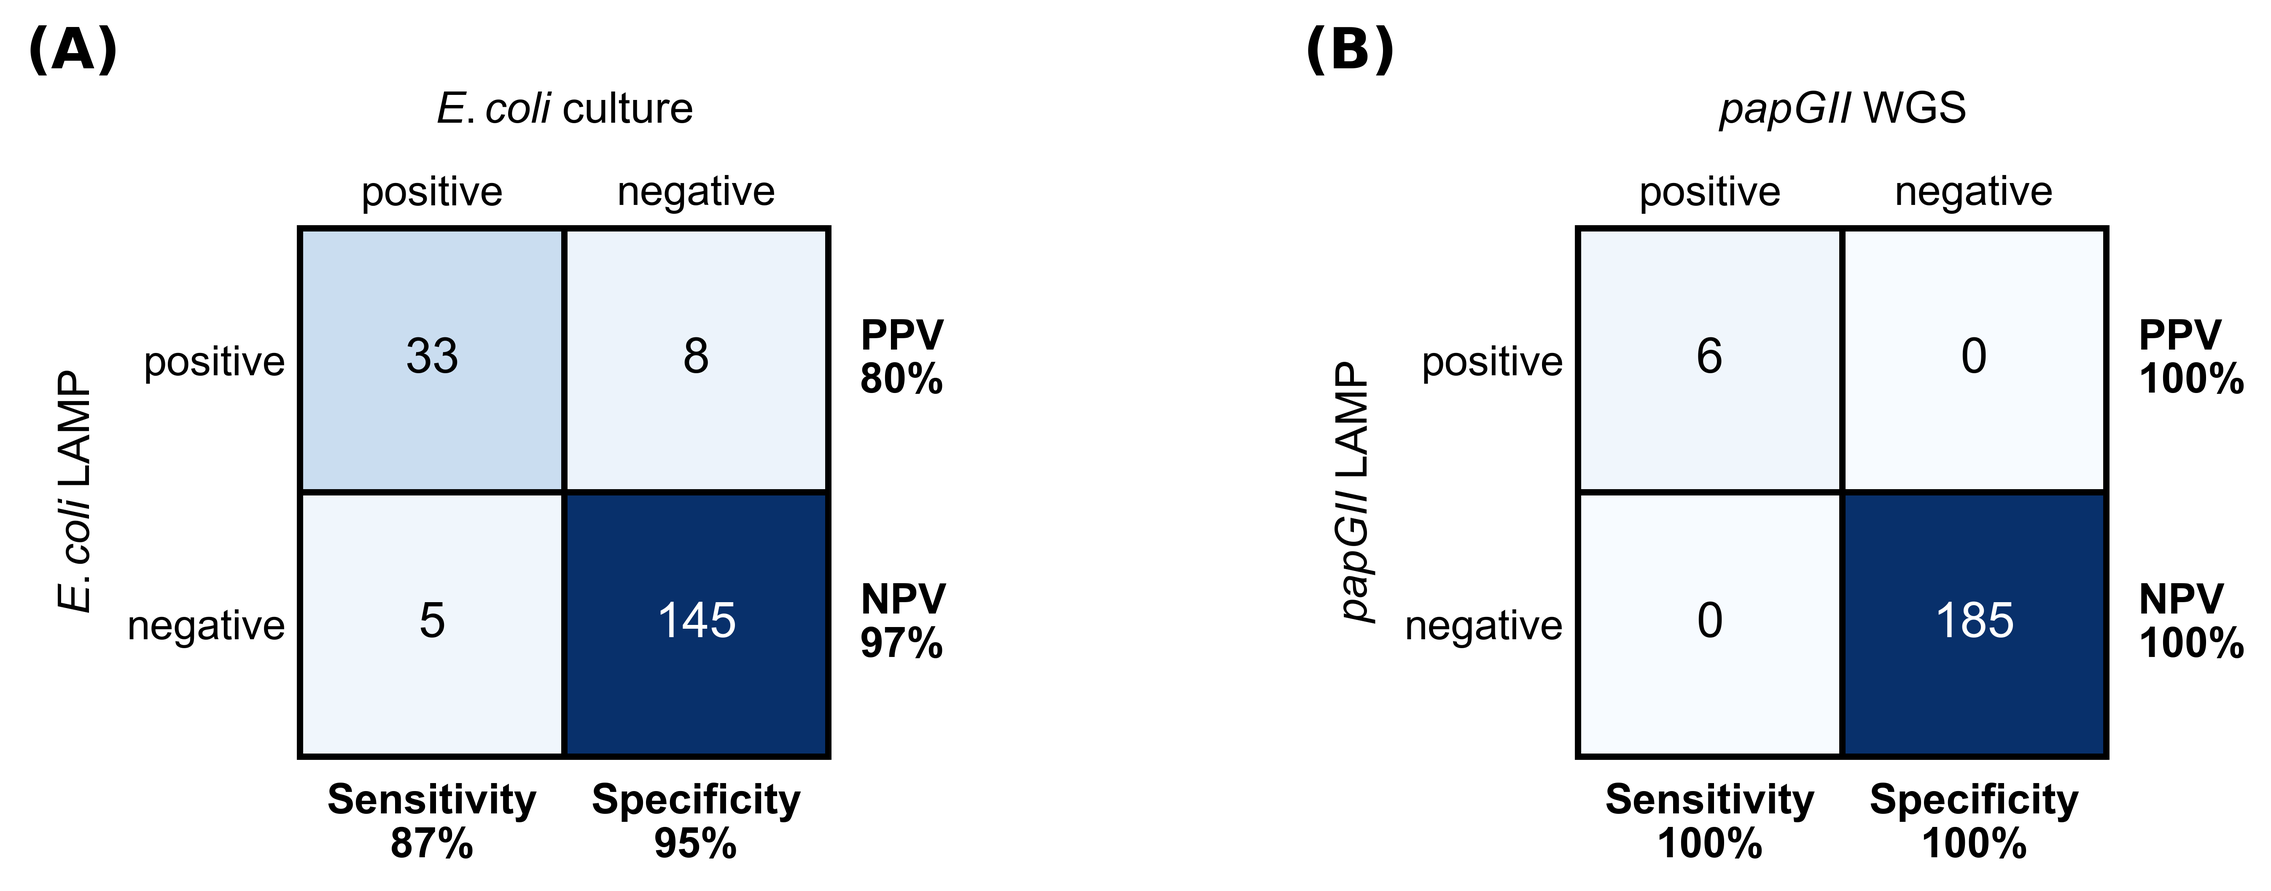
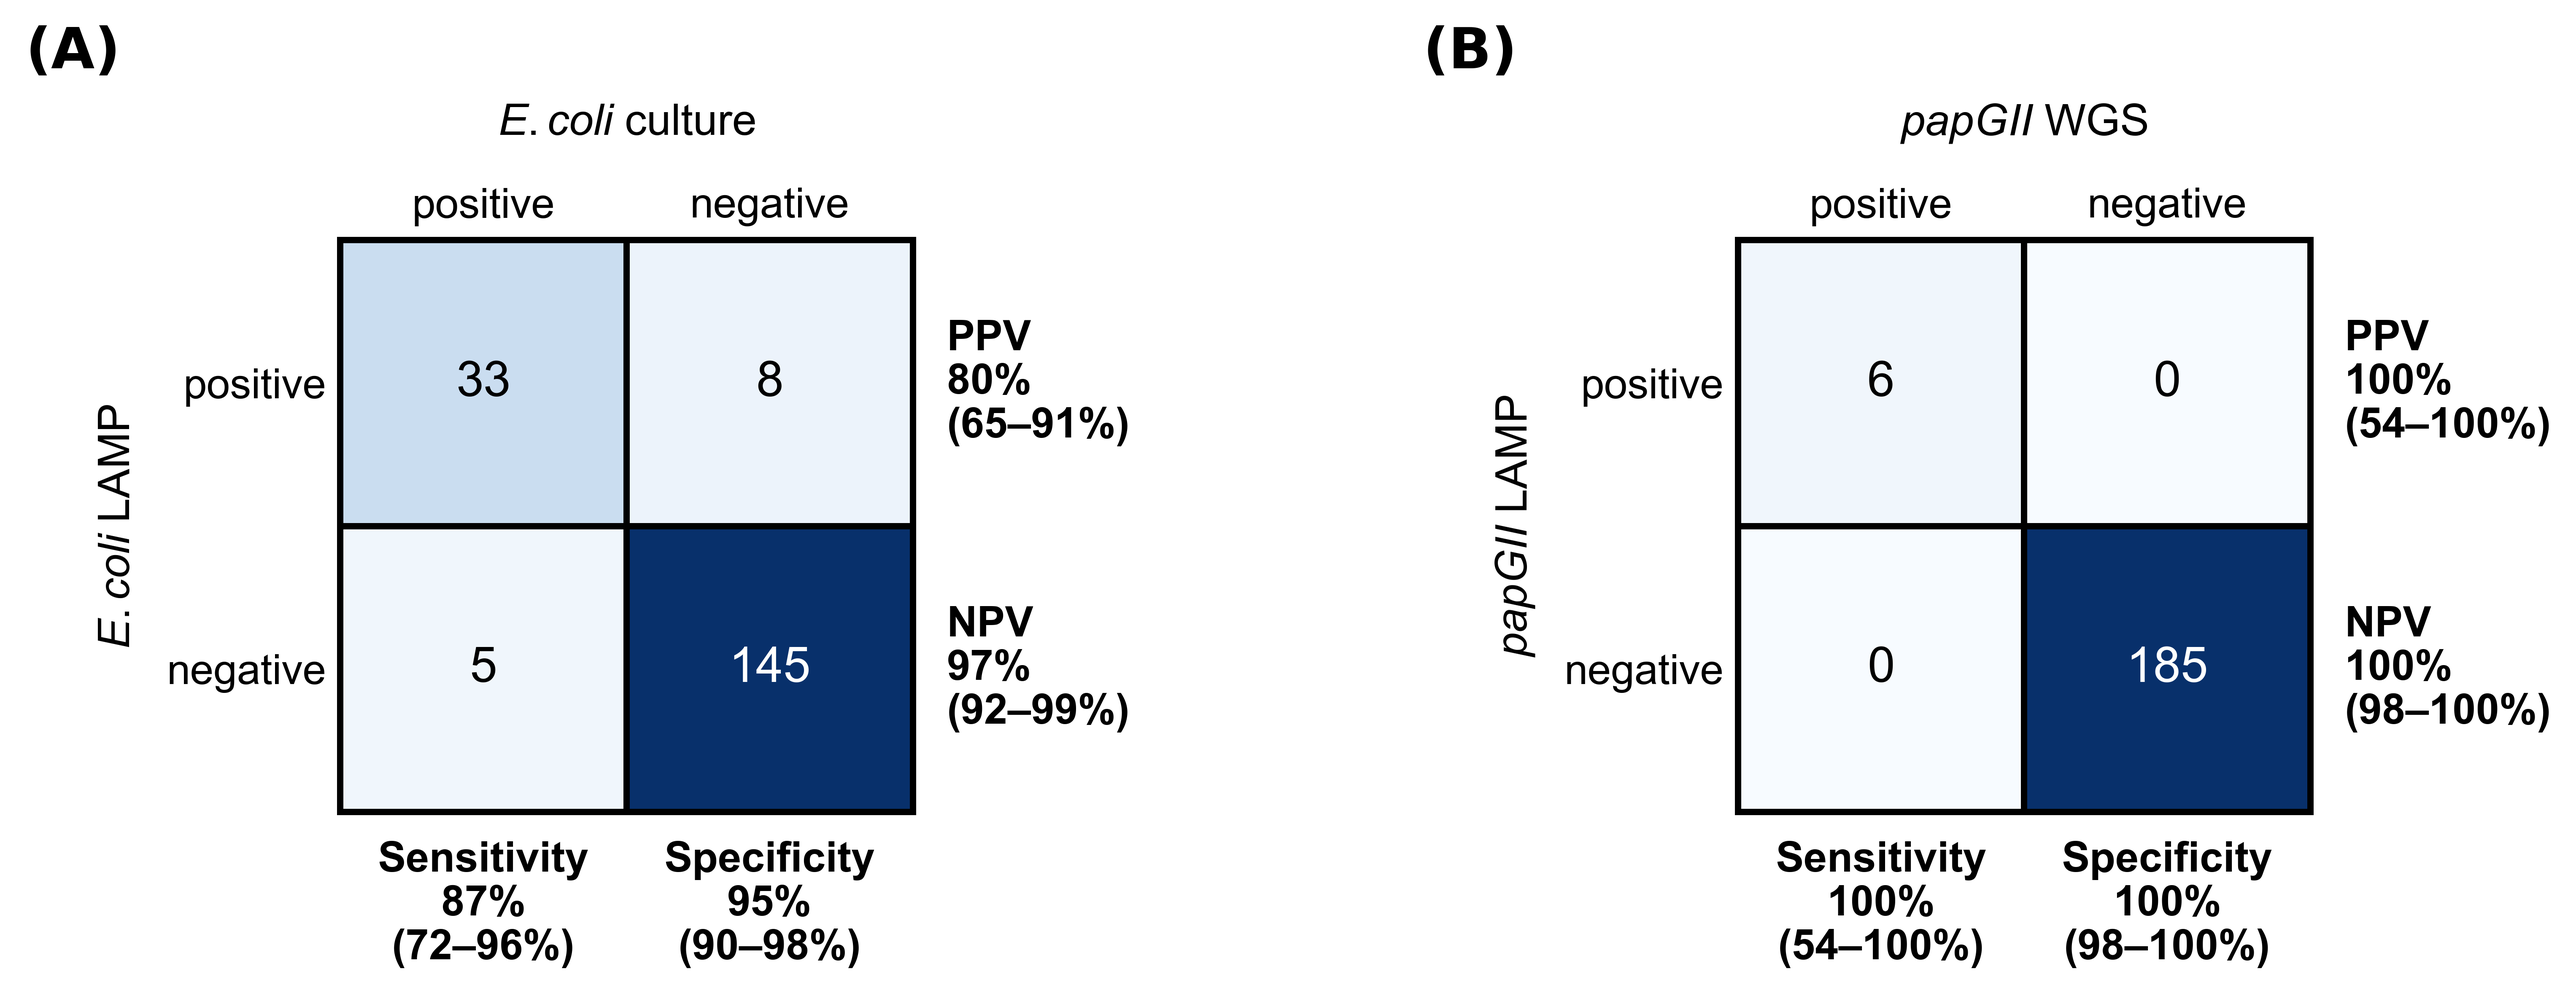
Figure 5: exact 95% confidence intervals under each percentage

diff --git a/scripts/fig5_confusion.py b/scripts/fig5_confusion.py
@@ -2,7 +2,7 @@
 
 (A) E. coli (uidA; time threshold 30 min, fluorescence threshold >= 3-fold) vs culture with MALDI-TOF;
 (B) papGII (23 min, >= 3-fold) vs whole genome sequencing. Cells: numbers of samples; margins: sensitivity, specificity, PPV
-and NPV in % (rounded to whole numbers). Same layout as the original figure; Arial. TP/FP/TN/FN follow lamp_common.time_to_threshold.
+and NPV in % (whole numbers) with exact (Clopper-Pearson) 95% confidence intervals. Same layout as the original figure; Arial. TP/FP/TN/FN follow lamp_common.time_to_threshold.
 
 Output: results/figures/fig5.{pdf,png,svg}
 """
@@ -12,6 +12,7 @@ import numpy as np
 from matplotlib.collections import LineCollection
 from matplotlib.patches import Rectangle
 
+from diagnostic_metrics_ci import clopper_pearson
 from lamp_common import RESULTS, TIME_THRESHOLD, load_samples
 
 OUT = RESULTS / "figures"
@@ -29,7 +30,9 @@ def counts(meta, target, ref_col):
 
 
 def pct(a, b):
-    return f"{100 * a / b:.0f}%"
+    """Proportion a/b in % (whole number) with the exact Clopper-Pearson 95% CI, e.g. '87%\n(72–96%)'."""
+    lo, hi = clopper_pearson(a, b)
+    return f"{100 * a / b:.0f}%\n({100 * lo:.0f}–{100 * hi:.0f}%)"
 
 
 def panel(ax, tp, fp, fn, tn, gene, ref_name):
@@ -58,13 +61,13 @@ def panel(ax, tp, fp, fn, tn, gene, ref_name):
 def main():
     OUT.mkdir(parents=True, exist_ok=True)
     meta = load_samples()
-    fig, axes = plt.subplots(1, 2, figsize=(9.8, 3.6), gridspec_kw={"wspace": 0.75})
+    fig, axes = plt.subplots(1, 2, figsize=(10.4, 3.9), gridspec_kw={"wspace": 1.05})
     for ax, (target, ref_col, gene, ref_name, letter) in zip(axes, PANELS):
         tp, fp, fn, tn = counts(meta, target, ref_col)
         panel(ax, tp, fp, fn, tn, gene, ref_name)
-        ax.text(-0.52, 1.28, letter, transform=ax.transAxes, va="bottom", ha="left", **LETTER)
+        ax.text(-0.55, 1.28, letter, transform=ax.transAxes, va="bottom", ha="left", **LETTER)
         print(target, dict(TP=tp, FP=fp, FN=fn, TN=tn))
-    fig.subplots_adjust(left=0.12, right=0.93, top=0.78, bottom=0.2)
+    fig.subplots_adjust(left=0.11, right=0.90, top=0.78, bottom=0.2)
     for ext in ("pdf", "png", "svg"):
         meta_ = {"pdf": {"CreationDate": None, "Creator": "fig5_confusion.py"}, "svg": {"Date": None}}.get(ext)
         fig.savefig(OUT / f"fig5.{ext}", dpi=600 if ext == "png" else None, bbox_inches="tight", metadata=meta_)
